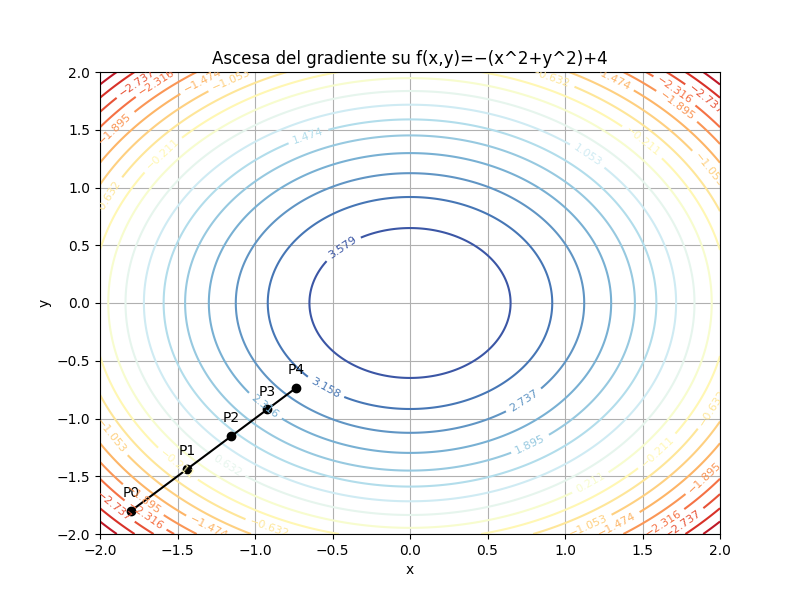
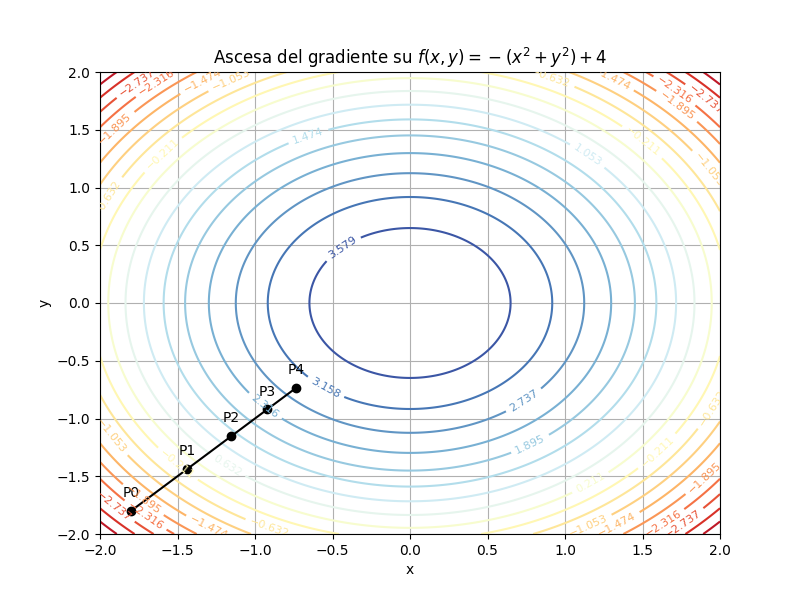
finaleeee

Changed region(s): [[0.25, 0.06, 0.7812, 0.12]]

diff --git a/plotMergeFunctions.py b/plotMergeFunctions.py
@@ -131,9 +131,10 @@ def plotFinalSetWithRadius(targetTrajectories, agentTrajectories, duration, r, p
     padding = r + 50  # aggiungi un padding per assicurarti che i cerchi siano visibili
     all_positions = np.vstack((finalTargetPositions, finalAgentPositions))
     x_min, y_min = np.min(all_positions, axis=0) - padding
-    x_max, y_max = np.max(all_positions, axis=0) + padding
+    x_max = 400  # Imposta il limite massimo dell'asse X a 400
+    y_max = np.max(all_positions[:, 1]) + padding
     ax.set_xlim(x_min, x_max)
-    ax.set_ylim(0, y_max)  # Imposta y_min a 0 per evitare valori negativi
+    ax.set_ylim(0, 400)  # Imposta y_min a 0 per evitare valori negativi
     
     if plotDir:
         imageDir = os.path.join(os.getcwd(), "Images")

diff --git a/CodiciGenerazioneGrafici/GraficoAscesaGradiente/ascentGradient.py b/CodiciGenerazioneGrafici/GraficoAscesaGradiente/ascentGradient.py
@@ -39,6 +39,7 @@ for i, point in enumerate(points):
     plt.annotate(f'P{i}', (point[0], point[1]), textcoords="offset points", xytext=(0,10), ha='center')
 
 plt.title('Ascesa del gradiente su f(x,y)=−(x^2+y^2)+4')
+plt.title(r'Ascesa del gradiente su $f(x, y) = -(x^2 + y^2) + 4$')
 plt.xlabel('x')
 plt.ylabel('y')
 plt.grid(True)
